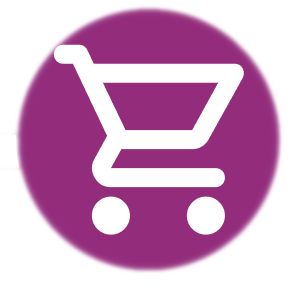
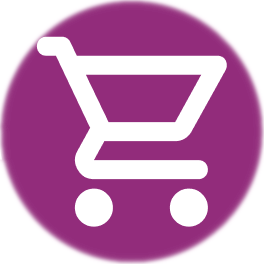
arrumar imagem de carrinho e o header da pag de pagamentos

diff --git a/pagamento1/pagamento.html b/pagamento1/pagamento.html
@@ -12,11 +12,12 @@
 
 <header>
     <section>
-        <a href="#"><img src="../imagens/Principal/LOGOSITE.png" alt="LOGO" height="60px"  width="60px"></a>
+        <a href="../principal/index.html"><img src="../imagens/Principal/LOGOSITE.png" alt="LOGO" height="60px"  width="60px"></a>
+
         <nav>
             <div>  
                 <img src="../imagens/Barra.png" alt="BARRA" width="510px" height="10px" class="barra">
-                    <a href="#"><img src="../imagens/Pagamento/Pagamento.png" alt="CARRO" height="80px" width="80px"></a>
+                <a href="#"><img src="../imagens/Pagamento/Pagamento.png" alt="CARRO" height="60px" width="60px"></a>
             </div>
 
             <ul>
@@ -26,6 +27,13 @@
             </ul>
         </nav>
 
+        <div>
+            <ul class="icon-direita">
+                <li><a href="#"><img src="../imagens/Principal/coracao.png" alt="coracao" class="icon-header"></a></li>
+                <li><a href="#"><img src="../imagens/Perfil.jpg" alt="perfil" class="icon-header" id="perfil"></a></li>
+                <li><a href="#"><img src="../imagens/shopping-cart.png" alt="carrinho" class="icon-header"></a></li>
+            </ul>
+        </div>
     </section>
 </header>
 

diff --git a/pagamento1/style.css b/pagamento1/style.css
@@ -9,7 +9,9 @@
 
 section{
     display: flex;
-    align-items: center;  
+    align-items: center;
+    justify-content: space-between;
+    padding: 2px 5% 2px 5%;
 }
 
 div{
@@ -19,9 +21,8 @@ div{
 }
 
 nav{
+    display: flex;
     flex-direction: column;
-    /* padding-left: 450px; */
-    background-color: red;
 }
 
 .barra{
@@ -42,4 +43,20 @@ li{
 }
 header{
     background-color: #AB238D;
+}
+
+.icon-header {
+    width: 41px;
+    height: 38px;
+}
+
+#perfil {
+    border-radius: 100px;
+}
+
+.icon-direita {
+    display: flex;
+    flex-direction: row;
+    list-style: none;
+    gap: 25px;
 }

diff --git a/principal/style.css b/principal/style.css
@@ -20,7 +20,6 @@ header ul{
     flex-direction: row;
     list-style: none;
     gap: 25px;
-    
 }
 
 header a {
